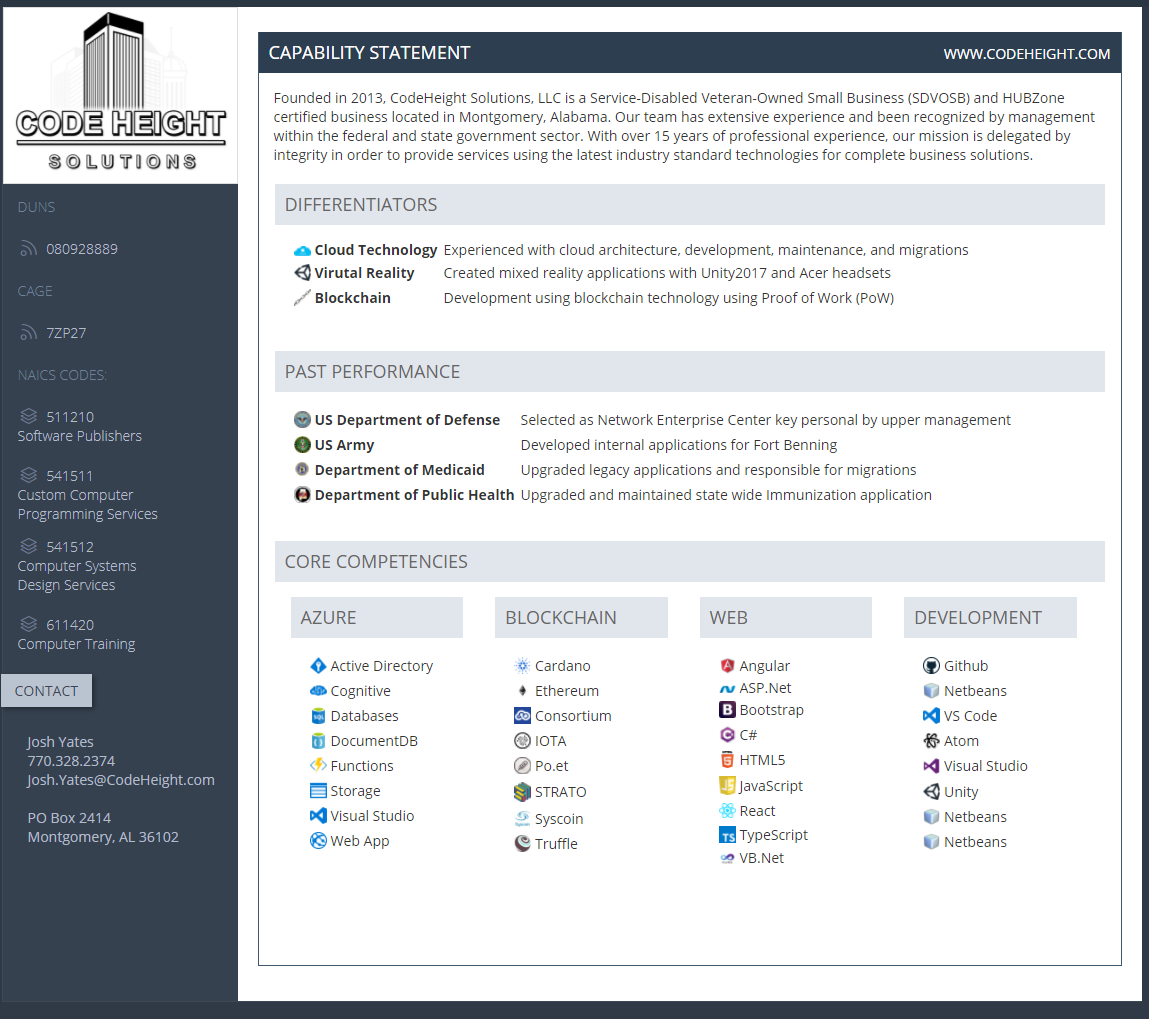
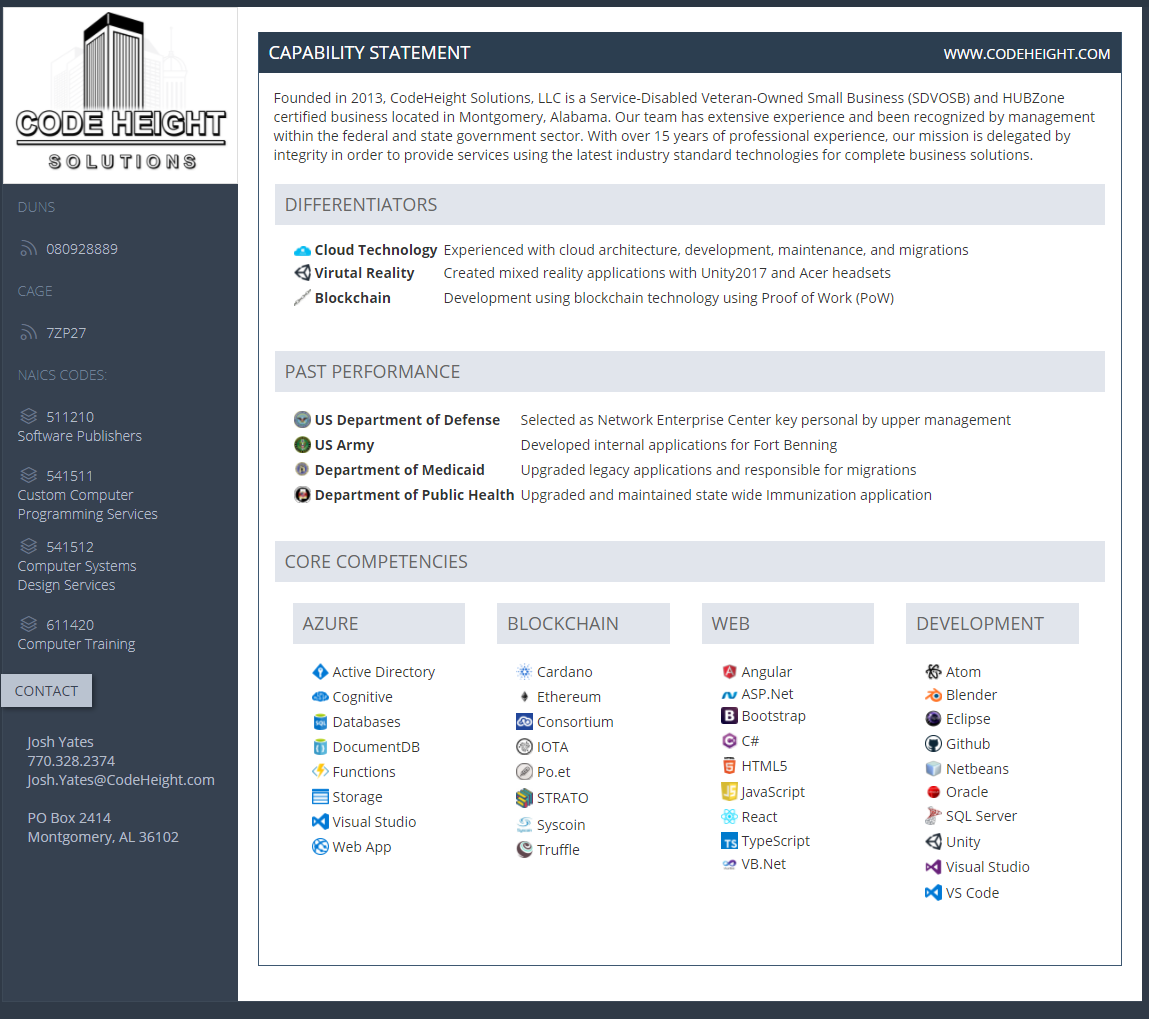
added development

Changed region(s): [[0.436, 0.5592, 0.7474, 0.8388], [0.7785, 0.5592, 0.9343, 0.8699], [0.2491, 0.5592, 0.4048, 0.8388]]

diff --git a/web/index.html b/web/index.html
@@ -561,39 +561,9 @@
                                                                                 <tbody>
                                                                                     <tr>
                                                                                         <td>
-                                                                                            <img src="..\assets\images\Development\Github.png" alt="Github" class="img-thumbnail-azure" />
-                                                                                        </td>
-                                                                                        <td> Github </td>
-                                                                                    </tr>
-                                                                                    <tr>
-                                                                                        <td>
-                                                                                            <img src="..\assets\images\Development\netbeans.png" alt="Netbeans" class="img-thumbnail-azure" />
-                                                                                        </td>
-                                                                                        <td> Netbeans </td>
-                                                                                    </tr>
-                                                                                    <tr>
-                                                                                        <td>
-                                                                                            <img src="..\assets\images\Azure\VisualStudioTeamServices.png" alt="VS Code" class="img-thumbnail-azure" />
-                                                                                        </td>
-                                                                                        <td> VS Code </td>
-                                                                                    </tr>
-                                                                                    <tr>
-                                                                                        <td>
                                                                                             <img src="..\assets\images\Development\atom.png" alt="Atom" class="img-thumbnail-azure" />
                                                                                         </td>
                                                                                         <td> Atom </td>
-                                                                                    </tr>
-                                                                                    <tr>
-                                                                                        <td>
-                                                                                            <img src="..\assets\images\Development\vs.png" alt="Visual Studio" class="img-thumbnail-azure" />
-                                                                                        </td>
-                                                                                        <td> Visual Studio </td>
-                                                                                    </tr>
-                                                                                    <tr>
-                                                                                        <td>
-                                                                                            <img src="..\assets\images\Tech\unity.png" alt="Unity" class="img-thumbnail-azure" />
-                                                                                        </td>
-                                                                                        <td> Unity </td>
                                                                                     </tr>
                                                                                     <tr>
                                                                                         <td>
@@ -606,6 +576,48 @@
                                                                                             <img src="..\assets\images\Development\eclipse.png" alt="Eclipse" class="img-thumbnail-azure" />
                                                                                         </td>
                                                                                         <td> Eclipse </td>
+                                                                                    </tr>
+                                                                                    <tr>
+                                                                                        <td>
+                                                                                            <img src="..\assets\images\Development\Github.png" alt="Github" class="img-thumbnail-azure" />
+                                                                                        </td>
+                                                                                        <td> Github </td>
+                                                                                    </tr>
+                                                                                    <tr>
+                                                                                        <td>
+                                                                                            <img src="..\assets\images\Development\netbeans.png" alt="Netbeans" class="img-thumbnail-azure" />
+                                                                                        </td>
+                                                                                        <td> Netbeans </td>
+                                                                                    </tr>
+                                                                                    <tr>
+                                                                                        <td>
+                                                                                            <img src="..\assets\images\Development\oracle.jpg" alt="Oracle" class="img-thumbnail-azure" />
+                                                                                        </td>
+                                                                                        <td> Oracle </td>
+                                                                                    </tr>
+                                                                                    <tr>
+                                                                                        <td>
+                                                                                            <img src="..\assets\images\Development\sqlserver.png" alt="SQL Server" class="img-thumbnail-azure" />
+                                                                                        </td>
+                                                                                        <td> SQL Server </td>
+                                                                                    </tr>
+                                                                                    <tr>
+                                                                                        <td>
+                                                                                            <img src="..\assets\images\Tech\unity.png" alt="Unity" class="img-thumbnail-azure" />
+                                                                                        </td>
+                                                                                        <td> Unity </td>
+                                                                                    </tr>
+                                                                                    <tr>
+                                                                                        <td>
+                                                                                            <img src="..\assets\images\Development\vs.png" alt="Visual Studio" class="img-thumbnail-azure" />
+                                                                                        </td>
+                                                                                        <td> Visual Studio </td>
+                                                                                    </tr>
+                                                                                    <tr>
+                                                                                        <td>
+                                                                                            <img src="..\assets\images\Azure\VisualStudioTeamServices.png" alt="VS Code" class="img-thumbnail-azure" />
+                                                                                        </td>
+                                                                                        <td> VS Code </td>
                                                                                     </tr>
                                                                                 </tbody>
                                                                             </table>
